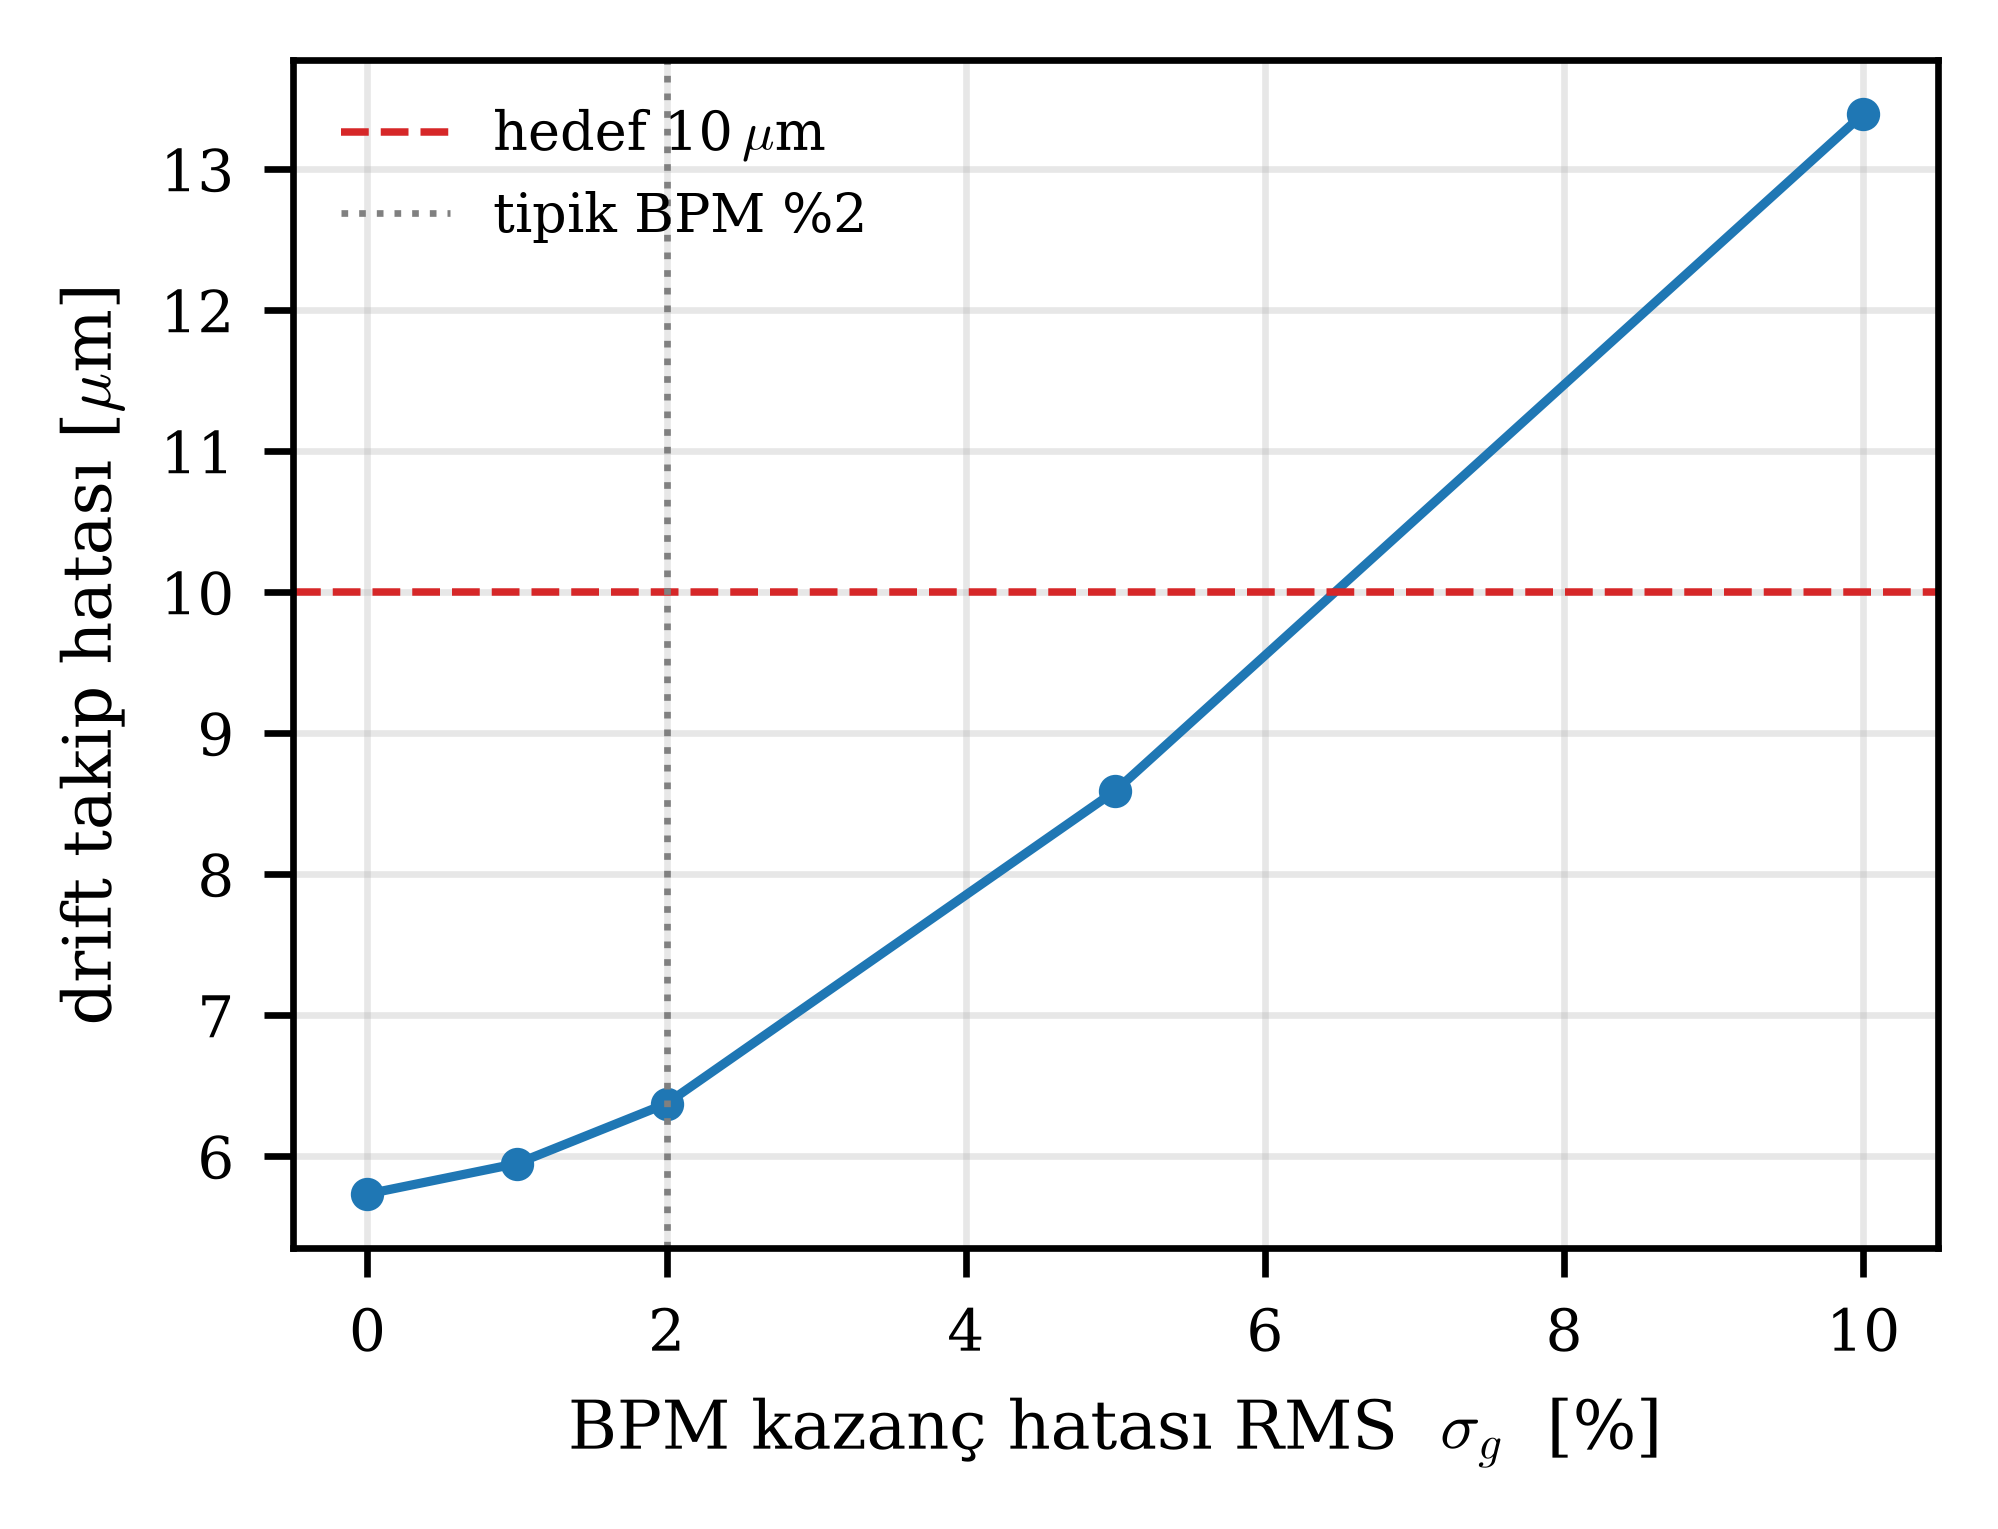
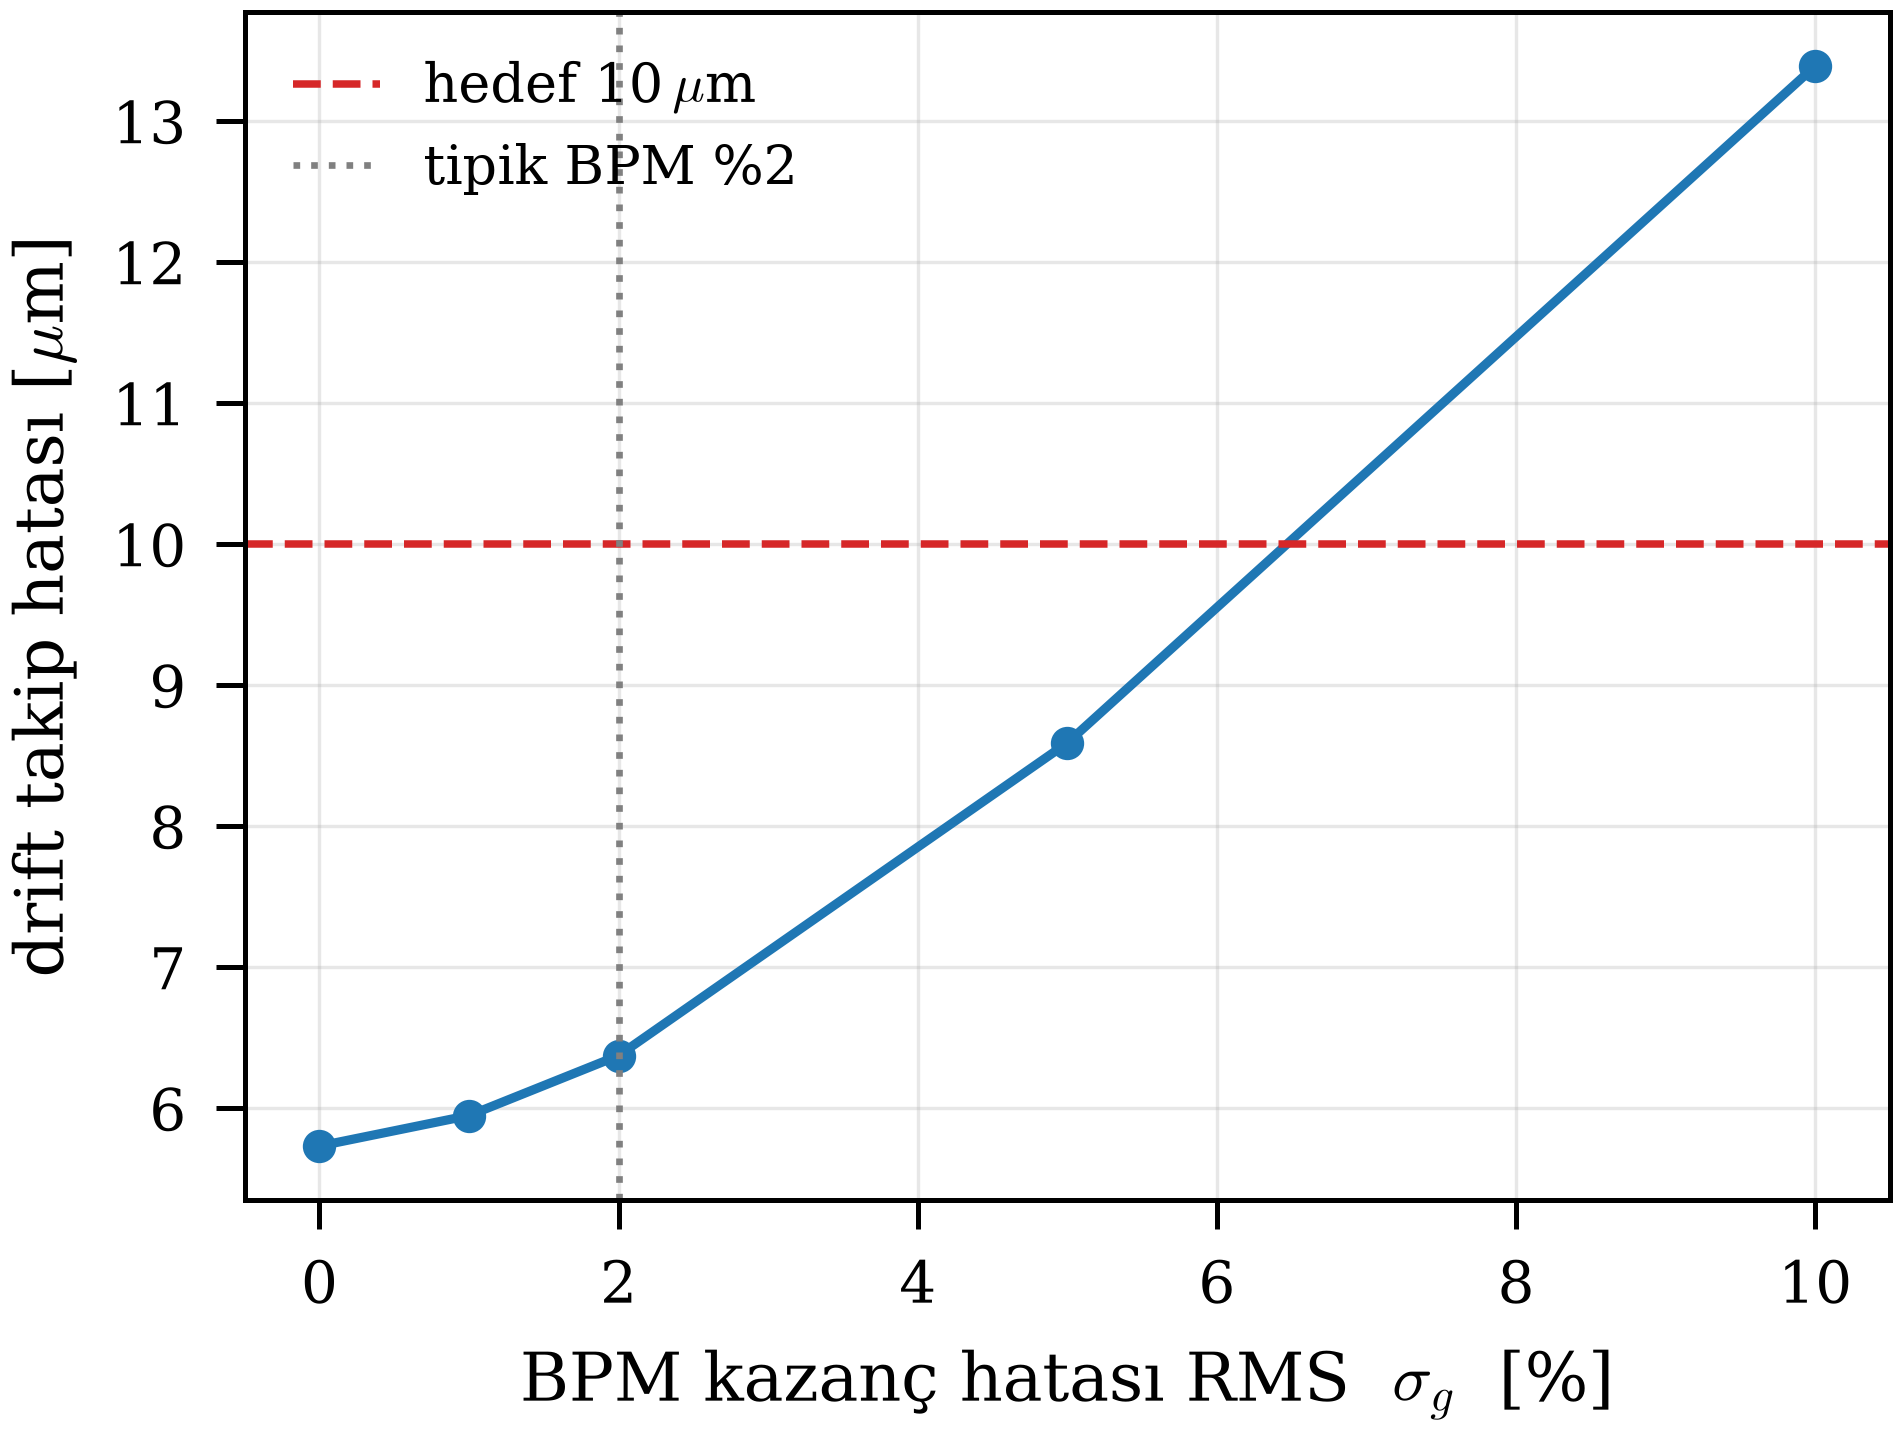
feat: BPM gain figürünü (Şekil 9) birleşik üreticiye bağla
make_figures.py yalnız 1,2,3,4,6 üretiyordu; BPM kazanç figürü ayrı
drift_gain_sim.py'deydi, dolayisiyla 'make_figures.py ile hepsini üret'
denince Şekil 9 çikmiyordu. fig9_bpm_gain() sarmalayicisi eklendi
(drift_gain_sim.main cagrilir, cwd korunur); FIGS ve docstring güncellendi.

Claude-Session: https://claude.ai/code/session_01A3yo27Mhweyo51mLu8vrjG

diff --git a/drift_monitor/make_figures.py b/drift_monitor/make_figures.py
@@ -8,8 +8,10 @@ make_figures.py — drift_makalesi.md için tüm şekilleri PRD tek-sütun forma
   Şekil 3: β-beating tarama eğrisi (tracking hatası vs ε_β)              — §3.7
   Şekil 4: Per-mod SVD (mod indeksi → 1/σ ve simetrik güç, çift eksen)   — §4.3
   Şekil 6: ε taraması (‖ΔR⁻¹‖ ∝ 1/ε; κ(ΔR) sabit)                       — §3.2
+  Şekil 9: BPM kazanç hataları (drift_gain_sim.py sarmalanır)            — §3.8
 
 Şekil 5 (iki-katmanlı mimari şeması) ayrı: make_fig5_architecture.py.
+Şekil 7 (teori-izleyici doğrulaması) C++ izleyici gerektirir (uzun sürer).
 
 PRD biçim kuralları (bu betikte uygulanır):
   * Tek-sütun genişlik: 3.375 in (246 pt). Çok-panelli şekiller dikey istiflenir.
@@ -316,8 +318,27 @@ def fig6_epsilon_sweep():
 
 
 # --------------------------------------------------------------------------
+# Şekil 9 — BPM kazanç hataları
+# --------------------------------------------------------------------------
+def fig9_bpm_gain():
+    """BPM kazanç (gain) hatası taraması → fig9_bpm_gain.png.
+
+    Asıl mantık ayrı modülde (drift_gain_sim.py): kazanç hatası analitik $R$ ile
+    çarpımsal model uyumsuzluğu yaratır, sabit ofset iptal olur. Buraya yalnız
+    birleşik üreticiden de çağrılabilsin diye sarmalanmıştır."""
+    print("Şekil 9: BPM kazanç hataları (drift_gain_sim)")
+    import drift_gain_sim
+    cwd = os.getcwd()
+    try:
+        drift_gain_sim.main()        # fig9_bpm_gain.png'i _DIR altına kaydeder
+    finally:
+        os.chdir(cwd)                # drift_gain_sim cwd'yi değiştirir; geri al
+
+
+# --------------------------------------------------------------------------
 FIGS = {1: fig1_svd_spectra, 2: fig2_drift_tracking,
-        3: fig3_betabeat, 4: fig4_permode, 6: fig6_epsilon_sweep}
+        3: fig3_betabeat, 4: fig4_permode, 6: fig6_epsilon_sweep,
+        9: fig9_bpm_gain}
 
 
 def main():